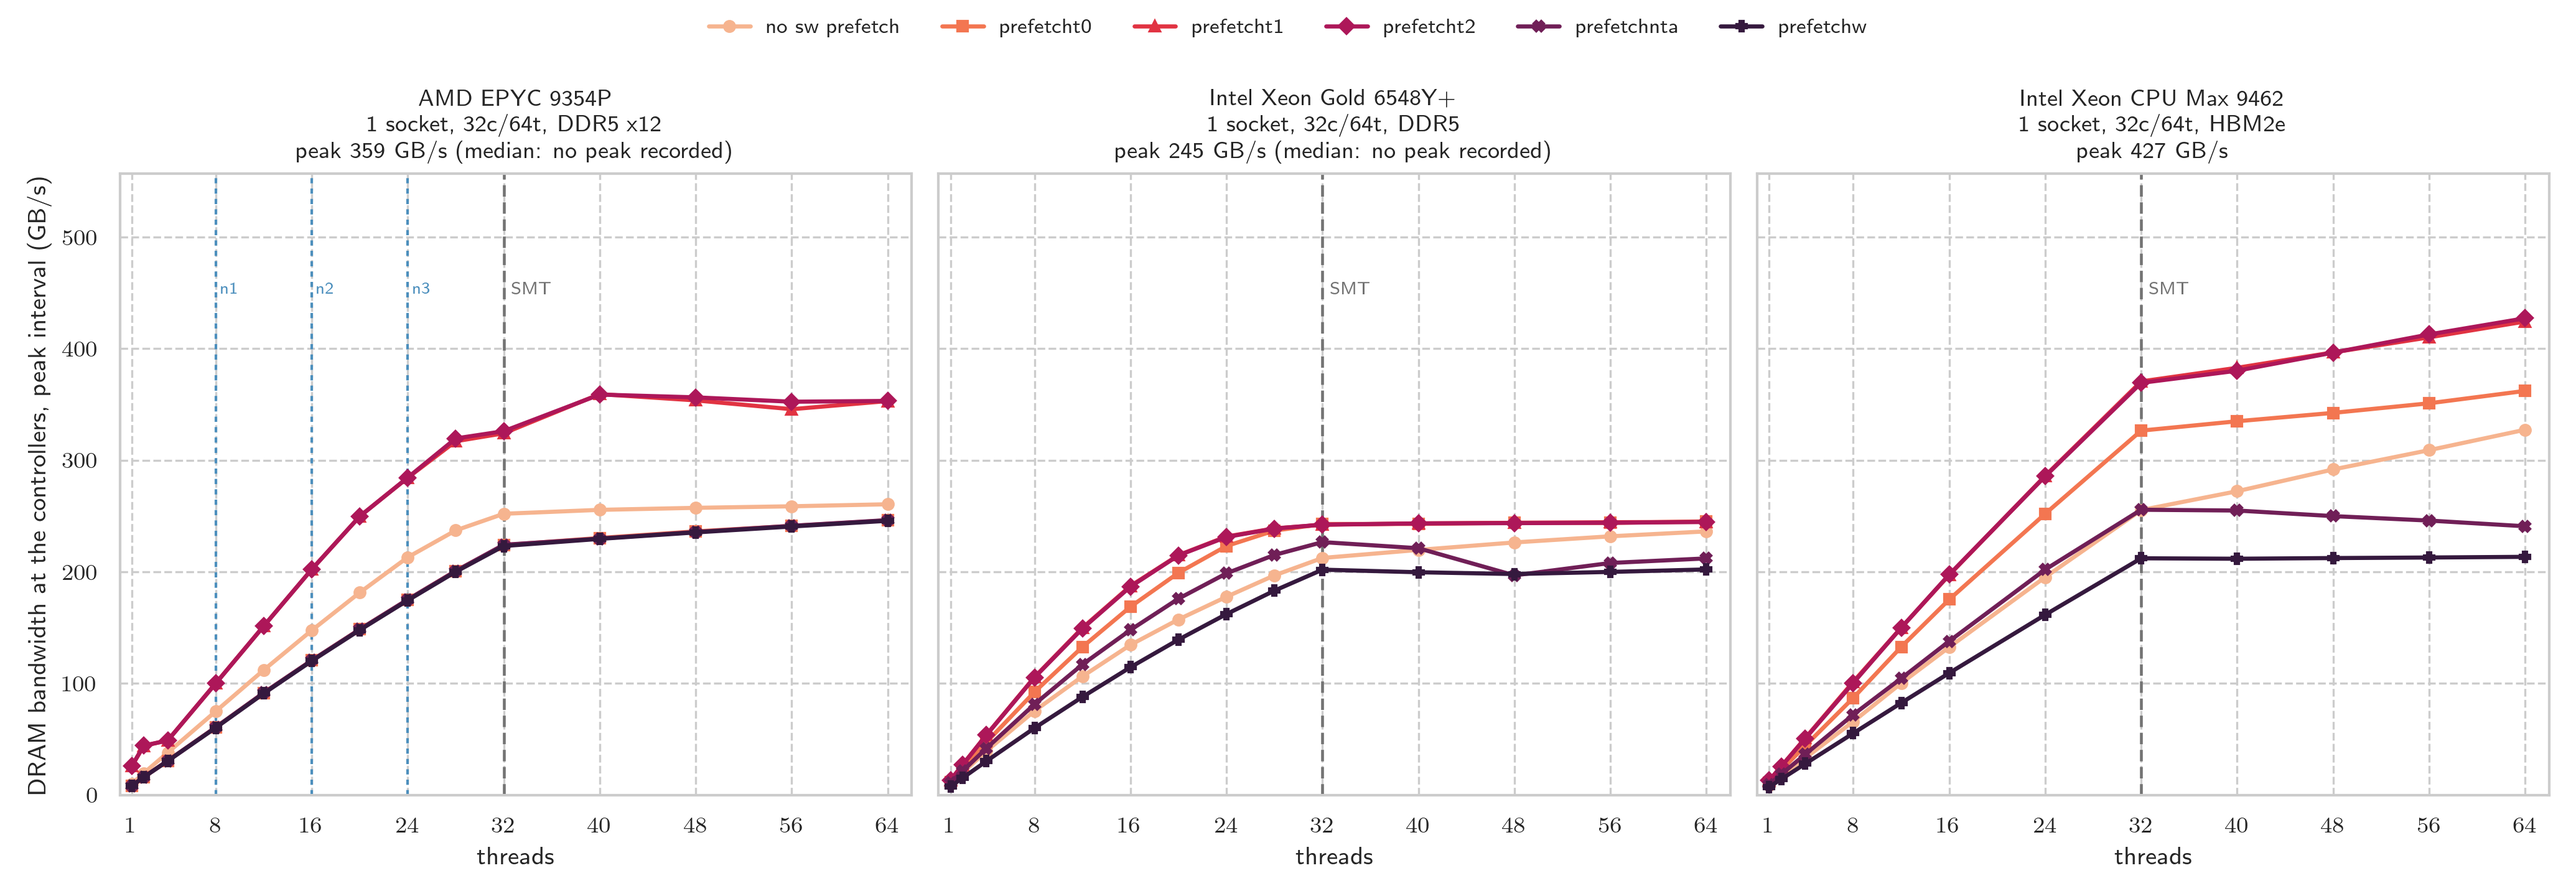
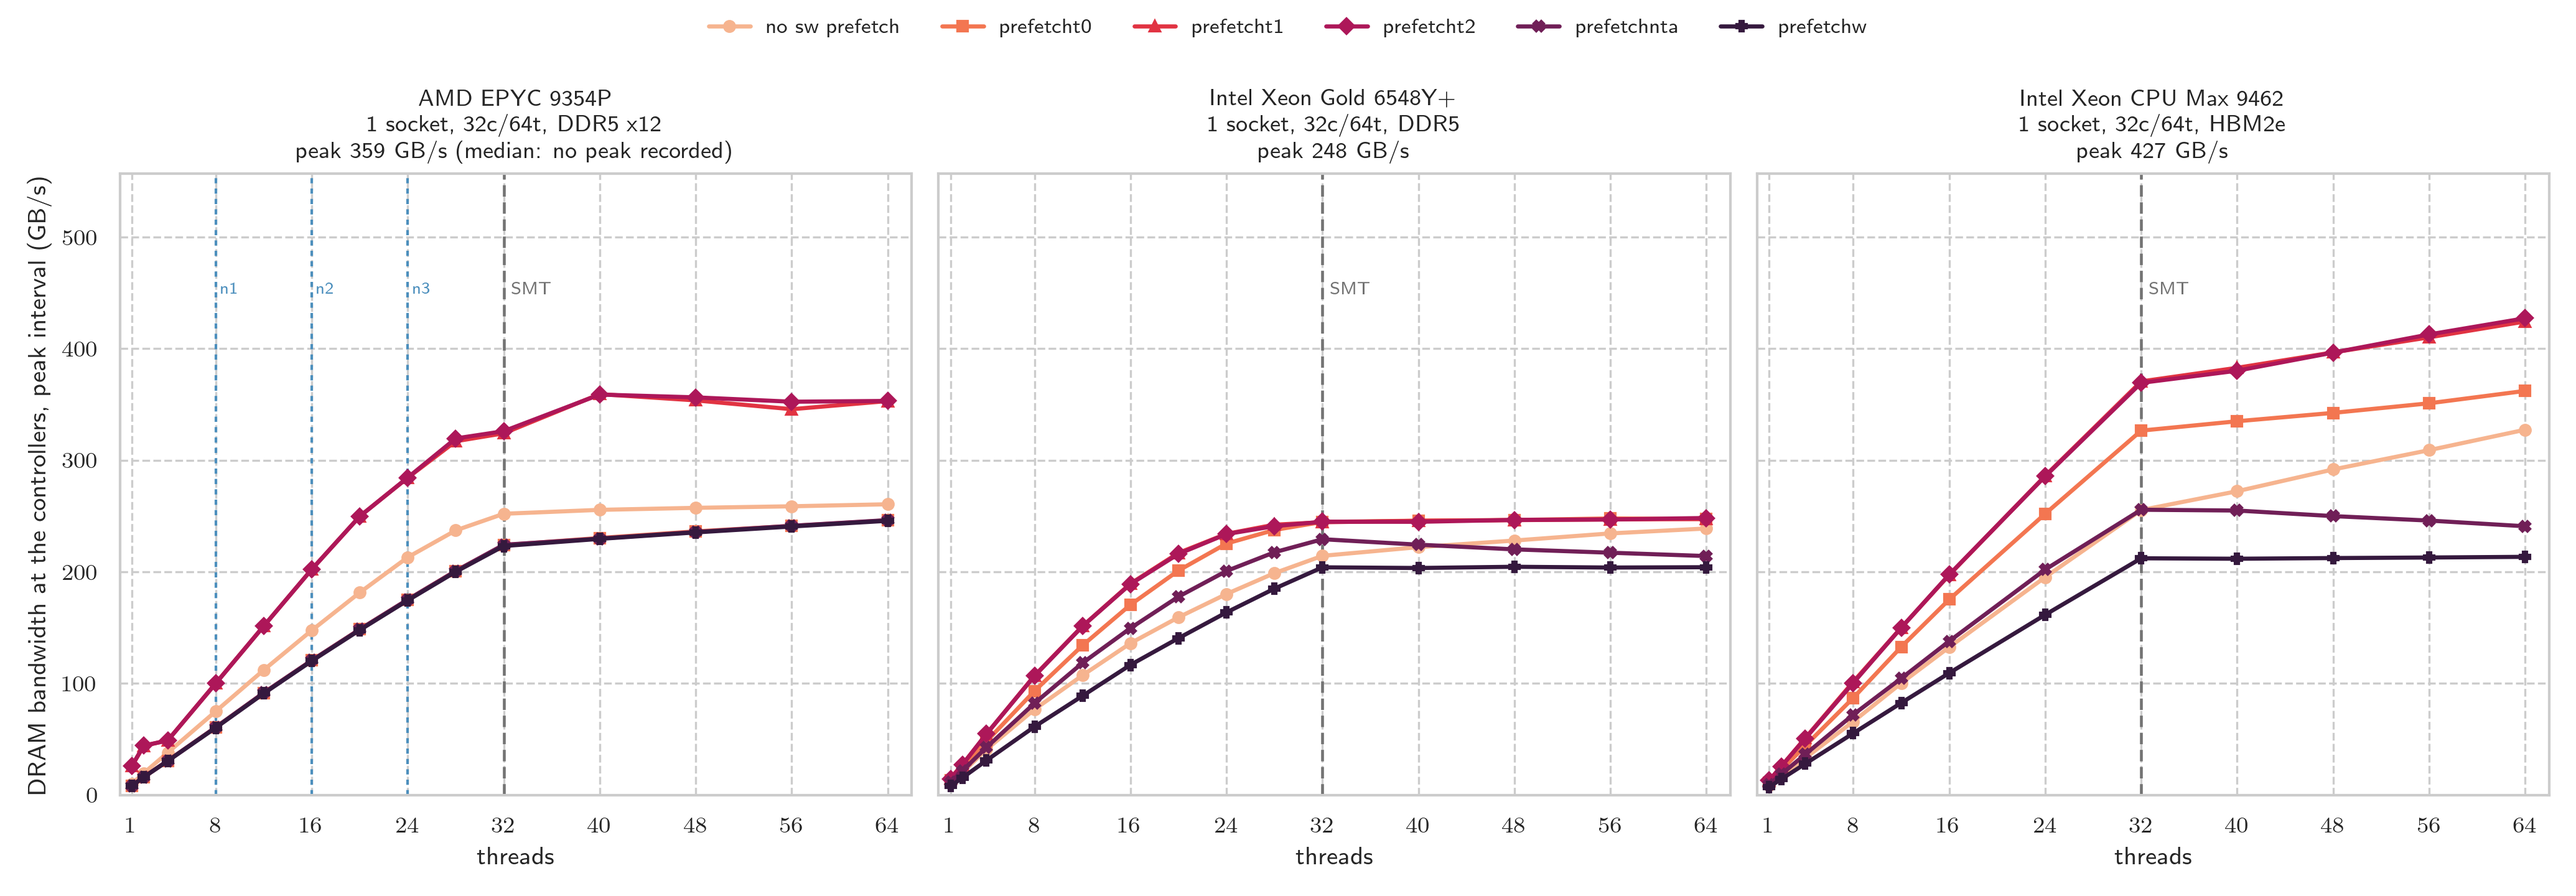
peak flex14

Changed region(s): [[0.4051, 0.5625, 0.6855, 0.7812], [0.4362, 0.1562, 0.592, 0.1875], [0.3739, 0.7812, 0.4051, 0.8438]]

diff --git a/scripts/eurosys_2026/collect_scalability/collect_cpu_scaling_intel.py b/scripts/eurosys_2026/collect_scalability/collect_cpu_scaling_intel.py
@@ -173,7 +173,13 @@ def cmd_for(cfg, threads):
 
 
 def parse_dram(output):
-    """Median DRAM read/write GB/s over the intervals inside the markers."""
+    """Median and peak DRAM read/write GB/s over the intervals inside the markers.
+
+    The peak is there for 33..63 threads, where the placement is unbalanced:
+    with fixed work per thread the SMT-paired threads straggle, the socket sits
+    nearly idle for the tail of the run, and the median counts that idle time.
+    See PEAK_VS_MEDIAN.md.
+    """
     inside = False
     prev_ts = 0.0
     pending = {}
@@ -207,10 +213,12 @@ def parse_dram(output):
         rows = rows[1:-1]
     if not rows:
         return None
+    totals = [r + w for r, w in rows]
     return {
         "dram_rd_gbps": round(statistics.median(r for r, _ in rows), 1),
         "dram_wr_gbps": round(statistics.median(w for _, w in rows), 1),
-        "dram_gbps": round(statistics.median(r + w for r, w in rows), 1),
+        "dram_gbps": round(statistics.median(totals), 1),
+        "dram_peak_gbps": round(max(totals), 1),
         "intervals": len(rows),
     }
 
@@ -265,6 +273,13 @@ def new_results(reps, threads):
             "for. In write mode DRAM moves about twice that (RFO + writeback); "
             "dram_gbps is the measured controller traffic."
         ),
+        "peak_note": (
+            "dram_gbps is the median interval, dram_peak_gbps the largest. Use "
+            "the peak from 33 to 63 threads: the placement there is unbalanced "
+            "(some cores run two threads, some one), and with fixed work per "
+            "thread the stragglers leave the machine idle and drag the median "
+            "down. At the balanced points the two agree within a few percent."
+        ),
         "plot_order": PLOT_ORDER,
         "series": {},
     }
@@ -283,6 +298,7 @@ def collect_series(name, cfg, threads, reps, results, out_path):
         "threads": [],
         "prog_gbps": [],
         "dram_gbps": [],
+        "dram_peak_gbps": [],
         "dram_rd_gbps": [],
         "dram_wr_gbps": [],
         "footprint_mb": [],
@@ -317,13 +333,14 @@ def collect_series(name, cfg, threads, reps, results, out_path):
         prog = [p["prog_gbps"] for p in points]
         entry["prog_gbps"].append(round(statistics.median(prog), 1))
         entry["prog_samples"].append(prog)
-        for key in ("dram_gbps", "dram_rd_gbps", "dram_wr_gbps"):
+        for key in ("dram_gbps", "dram_peak_gbps", "dram_rd_gbps", "dram_wr_gbps"):
             vals = [p[key] for p in points if key in p]
             entry[key].append(round(statistics.median(vals), 1) if vals else None)
         entry["dram_samples"].append(
             [p["dram_gbps"] for p in points if "dram_gbps" in p])
         print(f"  => {name} t={t:2d}  prog {entry['prog_gbps'][-1]:.1f}  "
-              f"dram {entry['dram_gbps'][-1]} GB/s")
+              f"dram {entry['dram_gbps'][-1]} GB/s "
+              f"(peak {entry['dram_peak_gbps'][-1]})")
         save(results, out_path)
 
 
